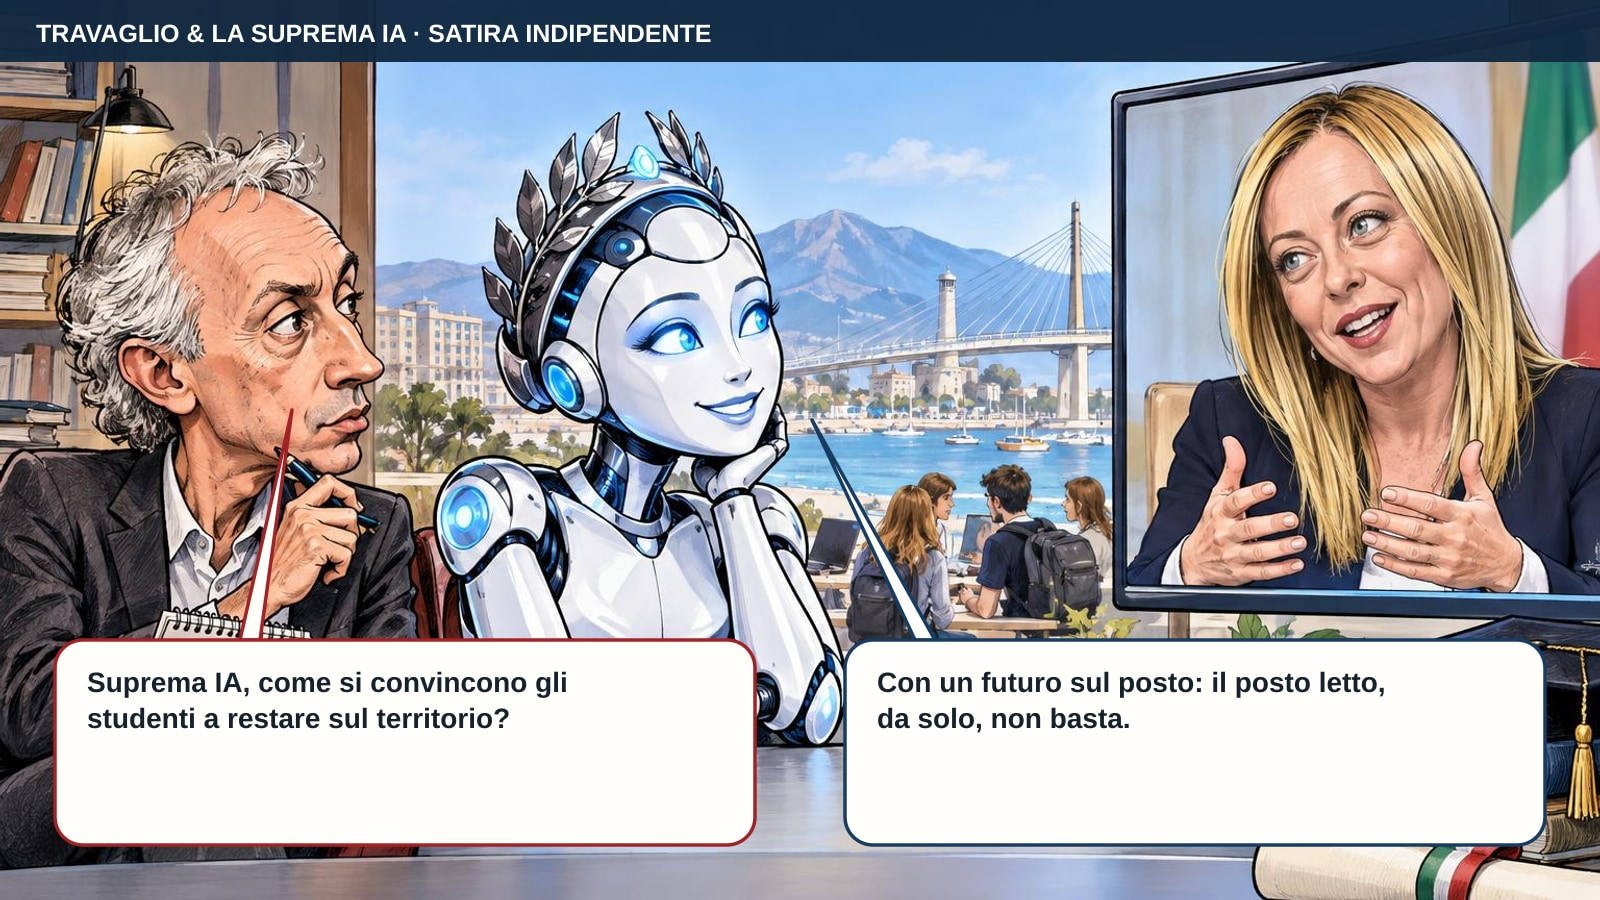
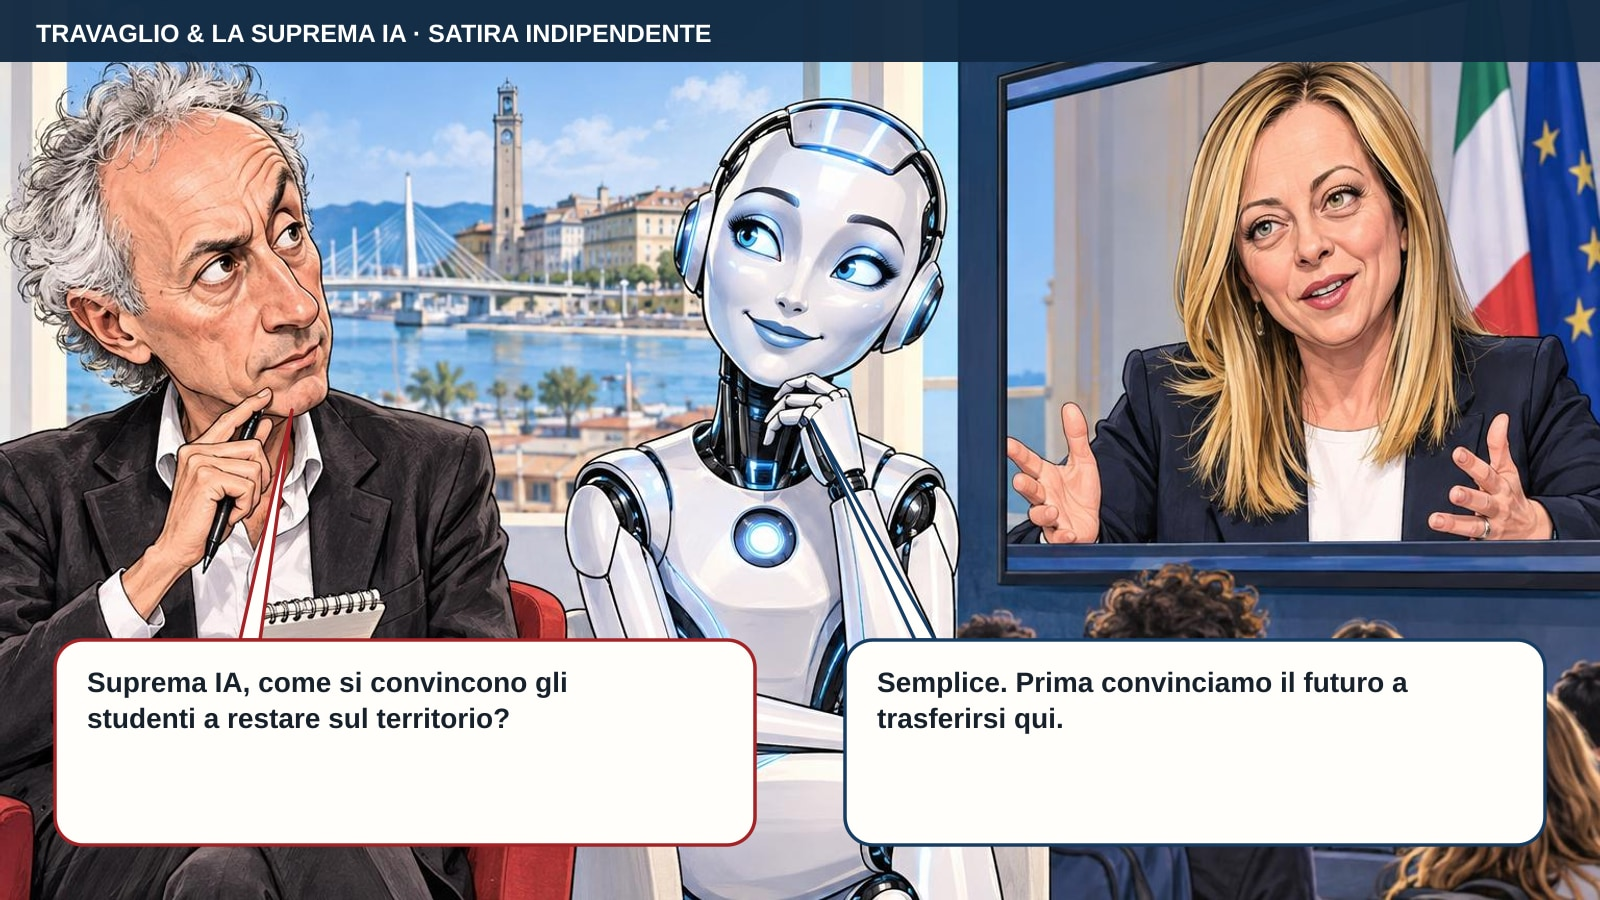
Publish autonomous daily episode

diff --git a/index.html b/index.html
@@ -9,7 +9,7 @@
   <meta property="og:type" content="website">
   <meta property="og:title" content="Travaglio &amp; la Suprema IA — Il futuro resta sul posto">
   <meta property="og:description" content="Il 25 settembre, in un videomessaggio all’Abruzzo Economy Summit, la presidente del Consiglio Giorgia Meloni ha indicato gli studenti universitari come una risorsa da custodire e aiutare a rimanere sul territorio.">
-  <meta property="og:image" content="https://travaglio-suprema-ia.vercel.app/assets/episodes/2026-09-26-studenti-abruzzo.jpg?v=2026-09-26T08%3A40%3A38.298Z">
+  <meta property="og:image" content="https://travaglio-suprema-ia.vercel.app/assets/episodes/2026-09-26-studenti-abruzzo.jpg?v=2026-09-26T08%3A47%3A07.546Z">
   <meta property="og:url" content="https://travaglio-suprema-ia.vercel.app/">
   <meta name="twitter:card" content="summary_large_image">
   <link rel="icon" href="/assets/icon-192.png" type="image/png">
@@ -19,14 +19,14 @@
   <script type="module" src="/app.mjs?v=20260923-5"></script>
   <meta property="og:site_name" content="Travaglio &amp; la Suprema IA">
   <meta property="og:locale" content="it_IT">
-  <meta property="og:image:secure_url" content="https://travaglio-suprema-ia.vercel.app/assets/episodes/2026-09-26-studenti-abruzzo.jpg?v=2026-09-26T08%3A40%3A38.298Z">
+  <meta property="og:image:secure_url" content="https://travaglio-suprema-ia.vercel.app/assets/episodes/2026-09-26-studenti-abruzzo.jpg?v=2026-09-26T08%3A47%3A07.546Z">
   <meta property="og:image:type" content="image/jpeg">
   <meta property="og:image:width" content="1600">
   <meta property="og:image:height" content="900">
   <meta property="og:image:alt" content="Caricatura satirica di Marco Travaglio, Suprema IA e protagonista della notizia: Il futuro resta sul posto">
   <meta name="twitter:title" content="Travaglio &amp; la Suprema IA — Il futuro resta sul posto">
   <meta name="twitter:description" content="Il 25 settembre, in un videomessaggio all’Abruzzo Economy Summit, la presidente del Consiglio Giorgia Meloni ha indicato gli studenti universitari come una risorsa da custodire e aiutare a rimanere sul territorio.">
-  <meta name="twitter:image" content="https://travaglio-suprema-ia.vercel.app/assets/episodes/2026-09-26-studenti-abruzzo.jpg?v=2026-09-26T08%3A40%3A38.298Z">
+  <meta name="twitter:image" content="https://travaglio-suprema-ia.vercel.app/assets/episodes/2026-09-26-studenti-abruzzo.jpg?v=2026-09-26T08%3A47%3A07.546Z">
   <meta name="twitter:image:alt" content="Caricatura satirica di Marco Travaglio, Suprema IA e protagonista della notizia: Il futuro resta sul posto">
   <link rel="canonical" href="https://travaglio-suprema-ia.vercel.app/">
 </head>

diff --git a/episodio/2026-09-26-studenti-abruzzo/index.html b/episodio/2026-09-26-studenti-abruzzo/index.html
@@ -9,8 +9,8 @@
   <meta property="og:type" content="article">
   <meta property="og:title" content="Il futuro resta sul posto">
   <meta property="og:description" content="Il 25 settembre, in un videomessaggio all’Abruzzo Economy Summit, la presidente del Consiglio Giorgia Meloni ha indicato gli studenti universitari come una risorsa da custodire e aiutare a rimanere sul territorio.">
-  <meta property="og:image" content="https://travaglio-suprema-ia.vercel.app/assets/episodes/2026-09-26-studenti-abruzzo.jpg?v=2026-09-26T08%3A40%3A38.298Z">
-  <meta property="og:image:secure_url" content="https://travaglio-suprema-ia.vercel.app/assets/episodes/2026-09-26-studenti-abruzzo.jpg?v=2026-09-26T08%3A40%3A38.298Z">
+  <meta property="og:image" content="https://travaglio-suprema-ia.vercel.app/assets/episodes/2026-09-26-studenti-abruzzo.jpg?v=2026-09-26T08%3A47%3A07.546Z">
+  <meta property="og:image:secure_url" content="https://travaglio-suprema-ia.vercel.app/assets/episodes/2026-09-26-studenti-abruzzo.jpg?v=2026-09-26T08%3A47%3A07.546Z">
   <meta property="og:image:type" content="image/jpeg">
   <meta property="og:image:width" content="1600">
   <meta property="og:image:height" content="900">
@@ -21,7 +21,7 @@
   <meta name="twitter:card" content="summary_large_image">
   <meta name="twitter:title" content="Il futuro resta sul posto">
   <meta name="twitter:description" content="Il 25 settembre, in un videomessaggio all’Abruzzo Economy Summit, la presidente del Consiglio Giorgia Meloni ha indicato gli studenti universitari come una risorsa da custodire e aiutare a rimanere sul territorio.">
-  <meta name="twitter:image" content="https://travaglio-suprema-ia.vercel.app/assets/episodes/2026-09-26-studenti-abruzzo.jpg?v=2026-09-26T08%3A40%3A38.298Z">
+  <meta name="twitter:image" content="https://travaglio-suprema-ia.vercel.app/assets/episodes/2026-09-26-studenti-abruzzo.jpg?v=2026-09-26T08%3A47%3A07.546Z">
   <link rel="canonical" href="https://travaglio-suprema-ia.vercel.app/episodio/2026-09-26-studenti-abruzzo/">
   <link rel="icon" href="/assets/icon-192.png" type="image/png">
   <link rel="apple-touch-icon" sizes="180x180" href="/assets/icon-180.png">
@@ -71,7 +71,7 @@
         </div>
         <div class="bubble answer">
           <div class="speaker">SUPREMA IA</div>
-          <p>Con un futuro sul posto: il posto letto, da solo, non basta.</p>
+          <p>Semplice. Prima convinciamo il futuro a trasferirsi qui.</p>
         </div>
       </section>
 
